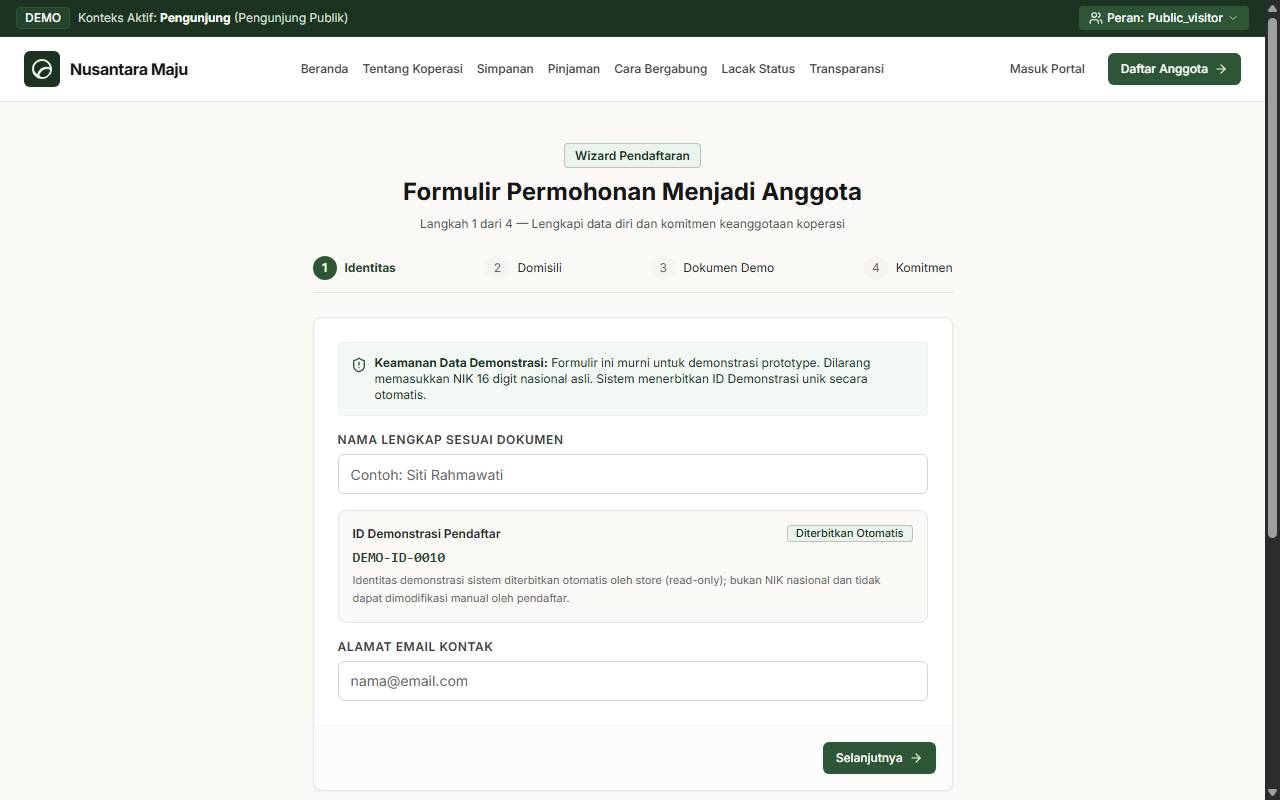
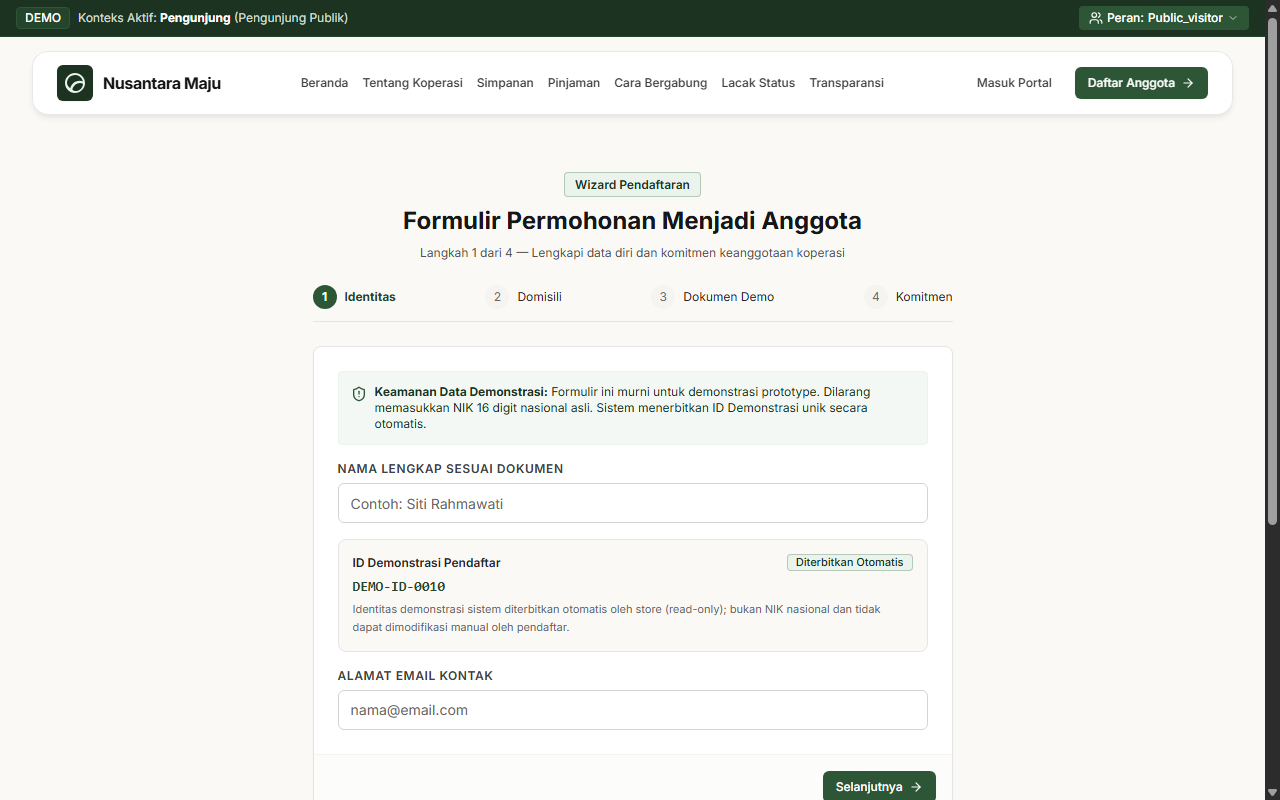
feat(ui): convert landing page navbar to floating fill style

diff --git a/src/layouts/PublicLayout.tsx b/src/layouts/PublicLayout.tsx
@@ -11,6 +11,7 @@ export const PublicLayout: React.FC = () => {
   const { config } = useConfigStore();
   const [mobileMenuOpen, setMobileMenuOpen] = useState(false);
   const location = useLocation();
+  const isHome = location.pathname === "/";
 
   const navLinks = [
     { label: "Beranda", href: "/" },
@@ -27,9 +28,13 @@ export const PublicLayout: React.FC = () => {
       {/* 1. Global Demo Switcher Bar */}
       <DemoRoleSwitcher />
 
-      {/* 2. Public Header */}
-      <header className="sticky top-0 z-40 bg-white/95 backdrop-blur-none border-b border-ink-200">
-        <div className="max-w-7xl mx-auto px-4 sm:px-6 lg:px-6 h-16 flex items-center justify-between gap-3 xl:gap-4">
+      {/* 2. Public Header (Floating Fill Navbar) */}
+      <header
+        className={`sticky top-2 sm:top-3.5 z-40 w-full px-3 sm:px-6 lg:px-8 pt-2 sm:pt-3.5 pointer-events-none transition-all duration-200 ${
+          isHome ? "-mb-16 sm:-mb-20" : "mb-2 sm:mb-4"
+        }`}
+      >
+        <div className="max-w-7xl mx-auto h-14 sm:h-16 px-4 sm:px-6 flex items-center justify-between gap-3 xl:gap-4 bg-white/95 backdrop-blur-md rounded-2xl border border-ink-200/90 shadow-md shadow-ink-950/5 pointer-events-auto">
           <div className="shrink-0 flex items-center">
             <BrandLogo size="md" to="/" />
           </div>

diff --git a/src/features/public/HomeView.tsx b/src/features/public/HomeView.tsx
@@ -133,7 +133,7 @@ export const HomeView: React.FC = () => {
         </div>
 
         {/* Content Container (Standard Max-W within Full-Width Hero) */}
-        <div className="relative z-10 max-w-7xl mx-auto px-4 sm:px-6 lg:px-8 py-16 sm:py-24 lg:py-28 w-full">
+        <div className="relative z-10 max-w-7xl mx-auto px-4 sm:px-6 lg:px-8 pt-24 sm:pt-28 lg:pt-32 pb-16 sm:pb-24 lg:pb-28 w-full">
           <div className="max-w-xl lg:max-w-2xl">
             {/* Main Headline (H1 containing top pill to satisfy semantic & test rules) */}
             <h1 className="text-3xl sm:text-5xl lg:text-6xl font-extrabold tracking-tight text-white leading-[1.12] sm:leading-[1.08] break-words mb-5">
